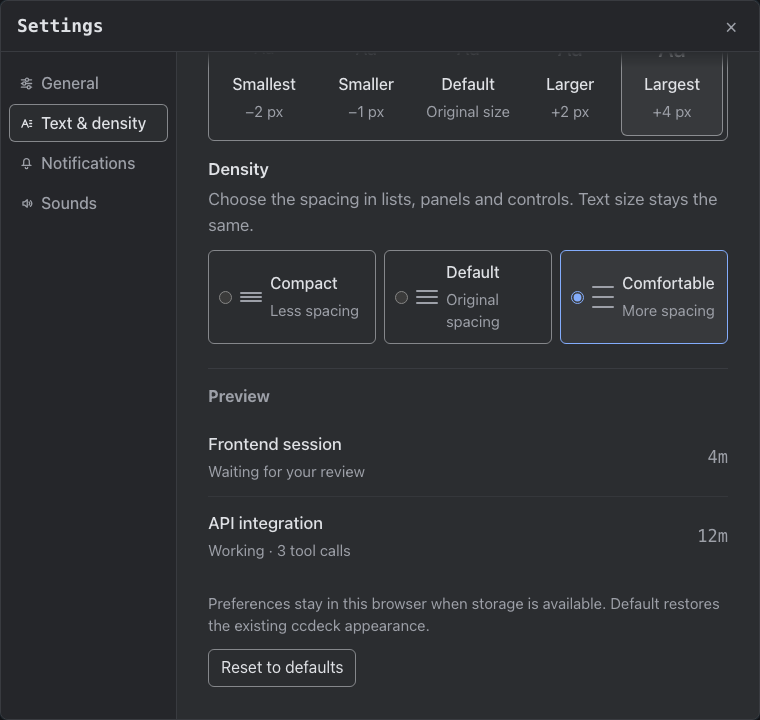
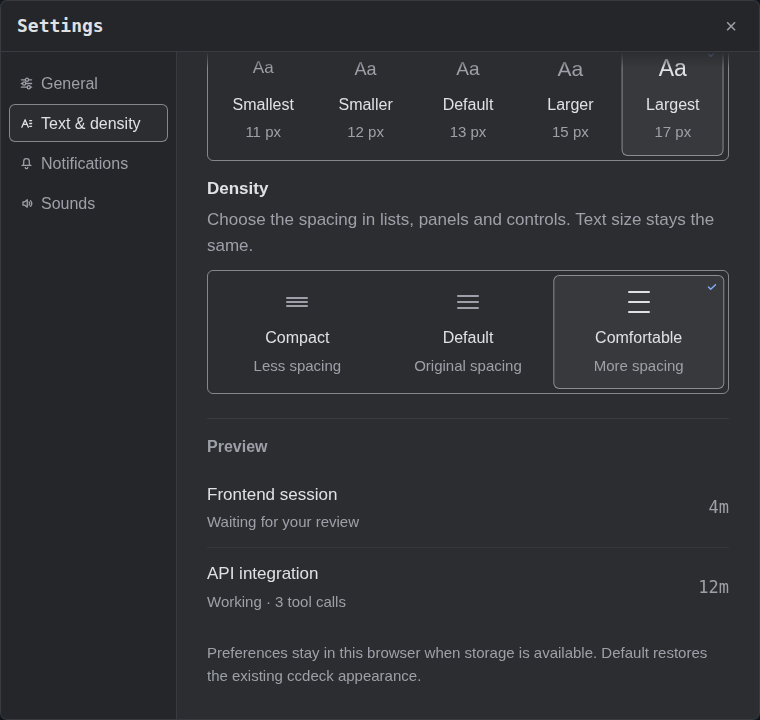
docs: record the text and density follow-up and regenerate its captures

diff --git a/.impeccable/surfaces/text-size-density.md b/.impeccable/surfaces/text-size-density.md
@@ -15,8 +15,8 @@ identity. Preserve system typography, monospaced values, theme and semantic
 colors, control edges, radii and focus tokens. No new visual identity, gradients,
 brand artwork or dependencies. Default keeps the established type and spacing.
 
-Task: choose independently between Smallest (−2 px), Smaller (−1 px), Default, Larger (+2 px)
-and Largest (+4 px) text, and Compact, Default and Comfortable density. Native radios in labeled
+Task: choose independently between Smallest (11 px body), Smaller (12 px), Default (13 px),
+Larger (15 px) and Largest (17 px) text, and Compact, Default and Comfortable density. Native radios in labeled
 fieldsets retain platform keyboard behavior. Changes apply immediately; the
 two illustrative session rows preview text and spacing. Reset to defaults
 restores both choices and is disabled when both are already Default.
@@ -27,10 +27,12 @@ offsets; choice labels retain readable size floors. Native radios overlay each
 text choice, inheriting its cursor, with a selected checkmark and visible focus
 on the parent label.
 At 640px and below the scale becomes vertical with whole-word text labels.
-Density keeps visible native radios and three-stroke illustrations with
-2/4/8px gaps for Compact/Default/Comfortable, using a stable sample class and
-data-density attribute. Mobile text layout targets only
-the last text span, preserving the illustrations' vertical strokes. Keep help,
+Density uses the same ordered control as text size (2026-10-15), with
+three-stroke illustrations at 2/4/8px gaps for Compact/Default/Comfortable,
+using a stable sample class and data-density attribute. On a phone both scales
+are vertical lists. Reset to defaults sits beside the intro.
+Panels widen with text: --ui-panel-increase is 24px at Larger and 48px at
+Largest (0 on phones), and Smaller/Smallest stop 9px and 10px text at 9px. Keep help,
 preview and reset reachable in narrow and short windows at Largest/Comfortable.
 Selection uses neutral fill and existing control/focus tokens. Enlarged text raises control height
 floors; compact spacing must not reduce interactive rows below 24px. Density

diff --git a/.impeccable/review/text-density/verification.md b/.impeccable/review/text-density/verification.md
@@ -140,3 +140,31 @@ external account state. Browser/origin-local settings do not add cloud sync or
 cross-origin desktop preference migration. Extremely small legacy metadata can
 become smaller with the explicit Smallest choice; choice labels retain readable
 floors. Default and larger modes preserve their tested hierarchy/contrast rules.
+
+## Follow-up pass — 2026-10-15
+
+Reviewed in the running deck (Vite on :5174 over a 3.41.3 deck) at every text
+size and density. Three defects found and fixed:
+
+- **Panels did not widen with their text.** At Larger/Largest the 288px and
+  280px panels kept their width, so "Claude accounts" and "This machine" broke
+  onto two lines, the accounts row cut "Fable" to "Fa…" and "resets in 1d 23h"
+  wrapped. The session list, Accounts, Usage and This machine now widen by
+  `--ui-panel-increase` (24px at Larger, 48px at Largest, 0 otherwise and on
+  phones), the left column with them, and the accounts row's fixed columns take
+  their share. The detail panel was checked at Largest and left at 360px.
+- **Smallest took 9px and 10px text to 7px and 8px.** Those 132 sizes now stop
+  at 9px, the ladder's lowest step: `calc(10px + max(-1px, …))` and
+  `calc(9px + max(0px, …))`.
+- **The pane.** Density is the same ordered control as text size, so "Original
+  spacing" no longer wraps in a third-width card; each size names its body size
+  (11–17 px) instead of an offset; Reset to defaults moved beside the intro, in
+  view without scrolling past the preview.
+
+Checks: `npm run typecheck`, `npm run build`, full suite on Node 24 — 1,068
+files / 13,343 tests passed; both browser scripts passed (the preferences script
+updated for the moved Reset and the new radio names); an overflow audit of the
+four panels found no visible truncated text at Smallest, Default, Larger or
+Largest. The tracked PNGs were regenerated by those two scripts.
+`defaultReadingSheetText` also resolves the panel increase and the floored small
+sizes, so the Default geometry tests still read the shipped values.
